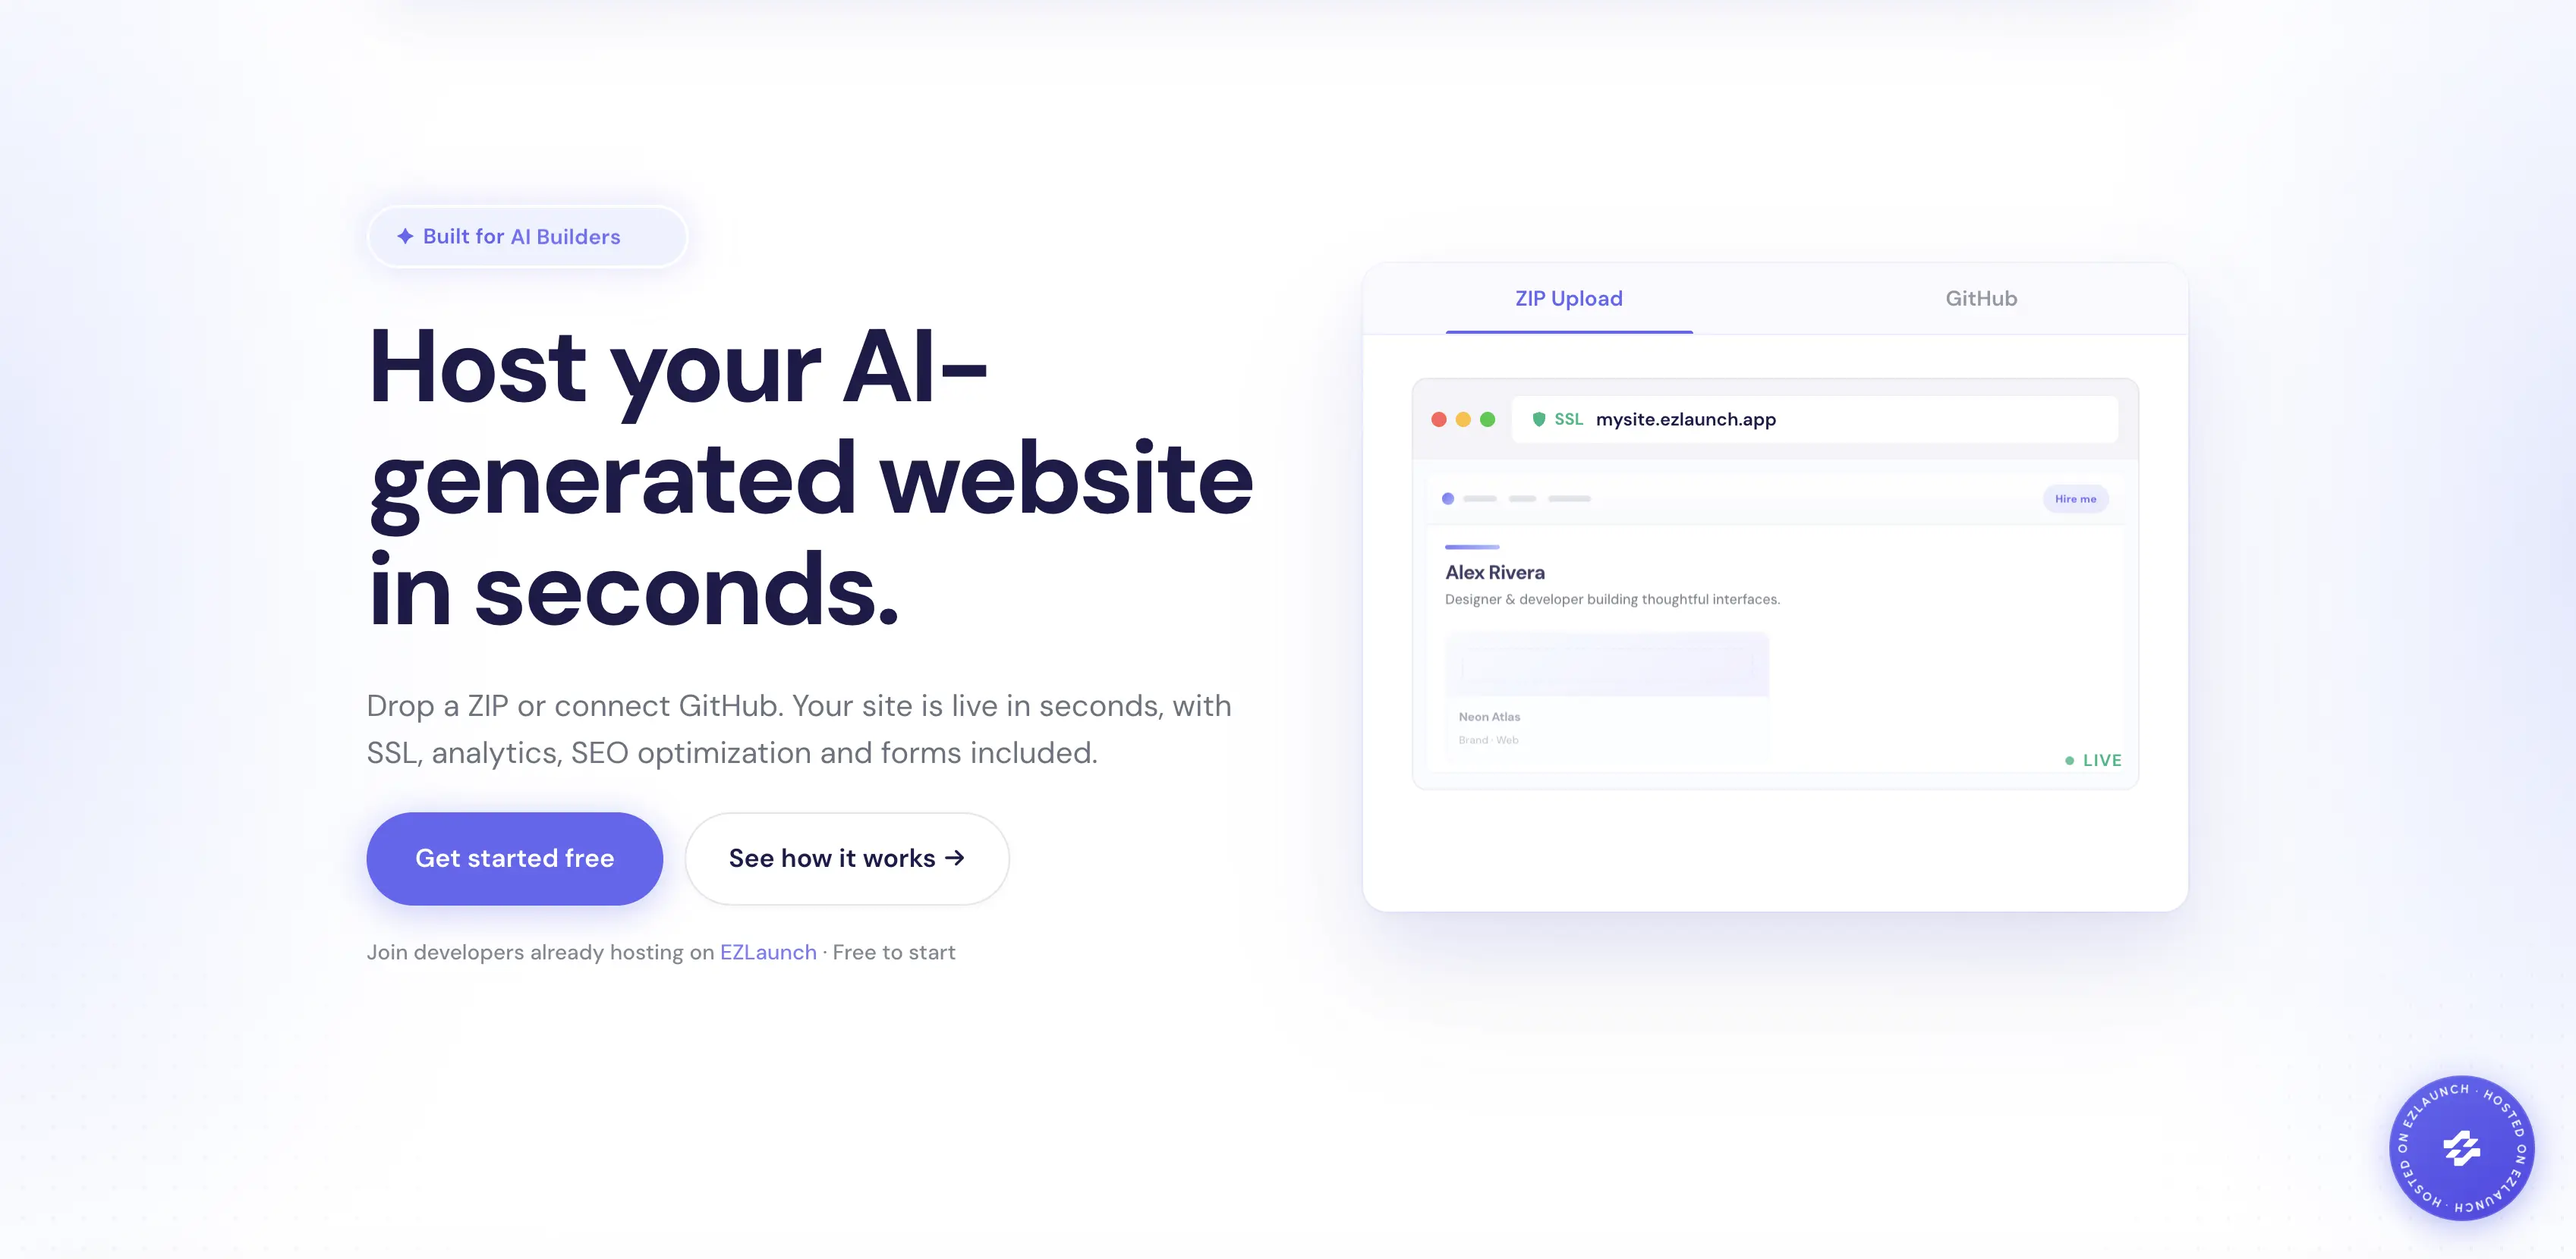
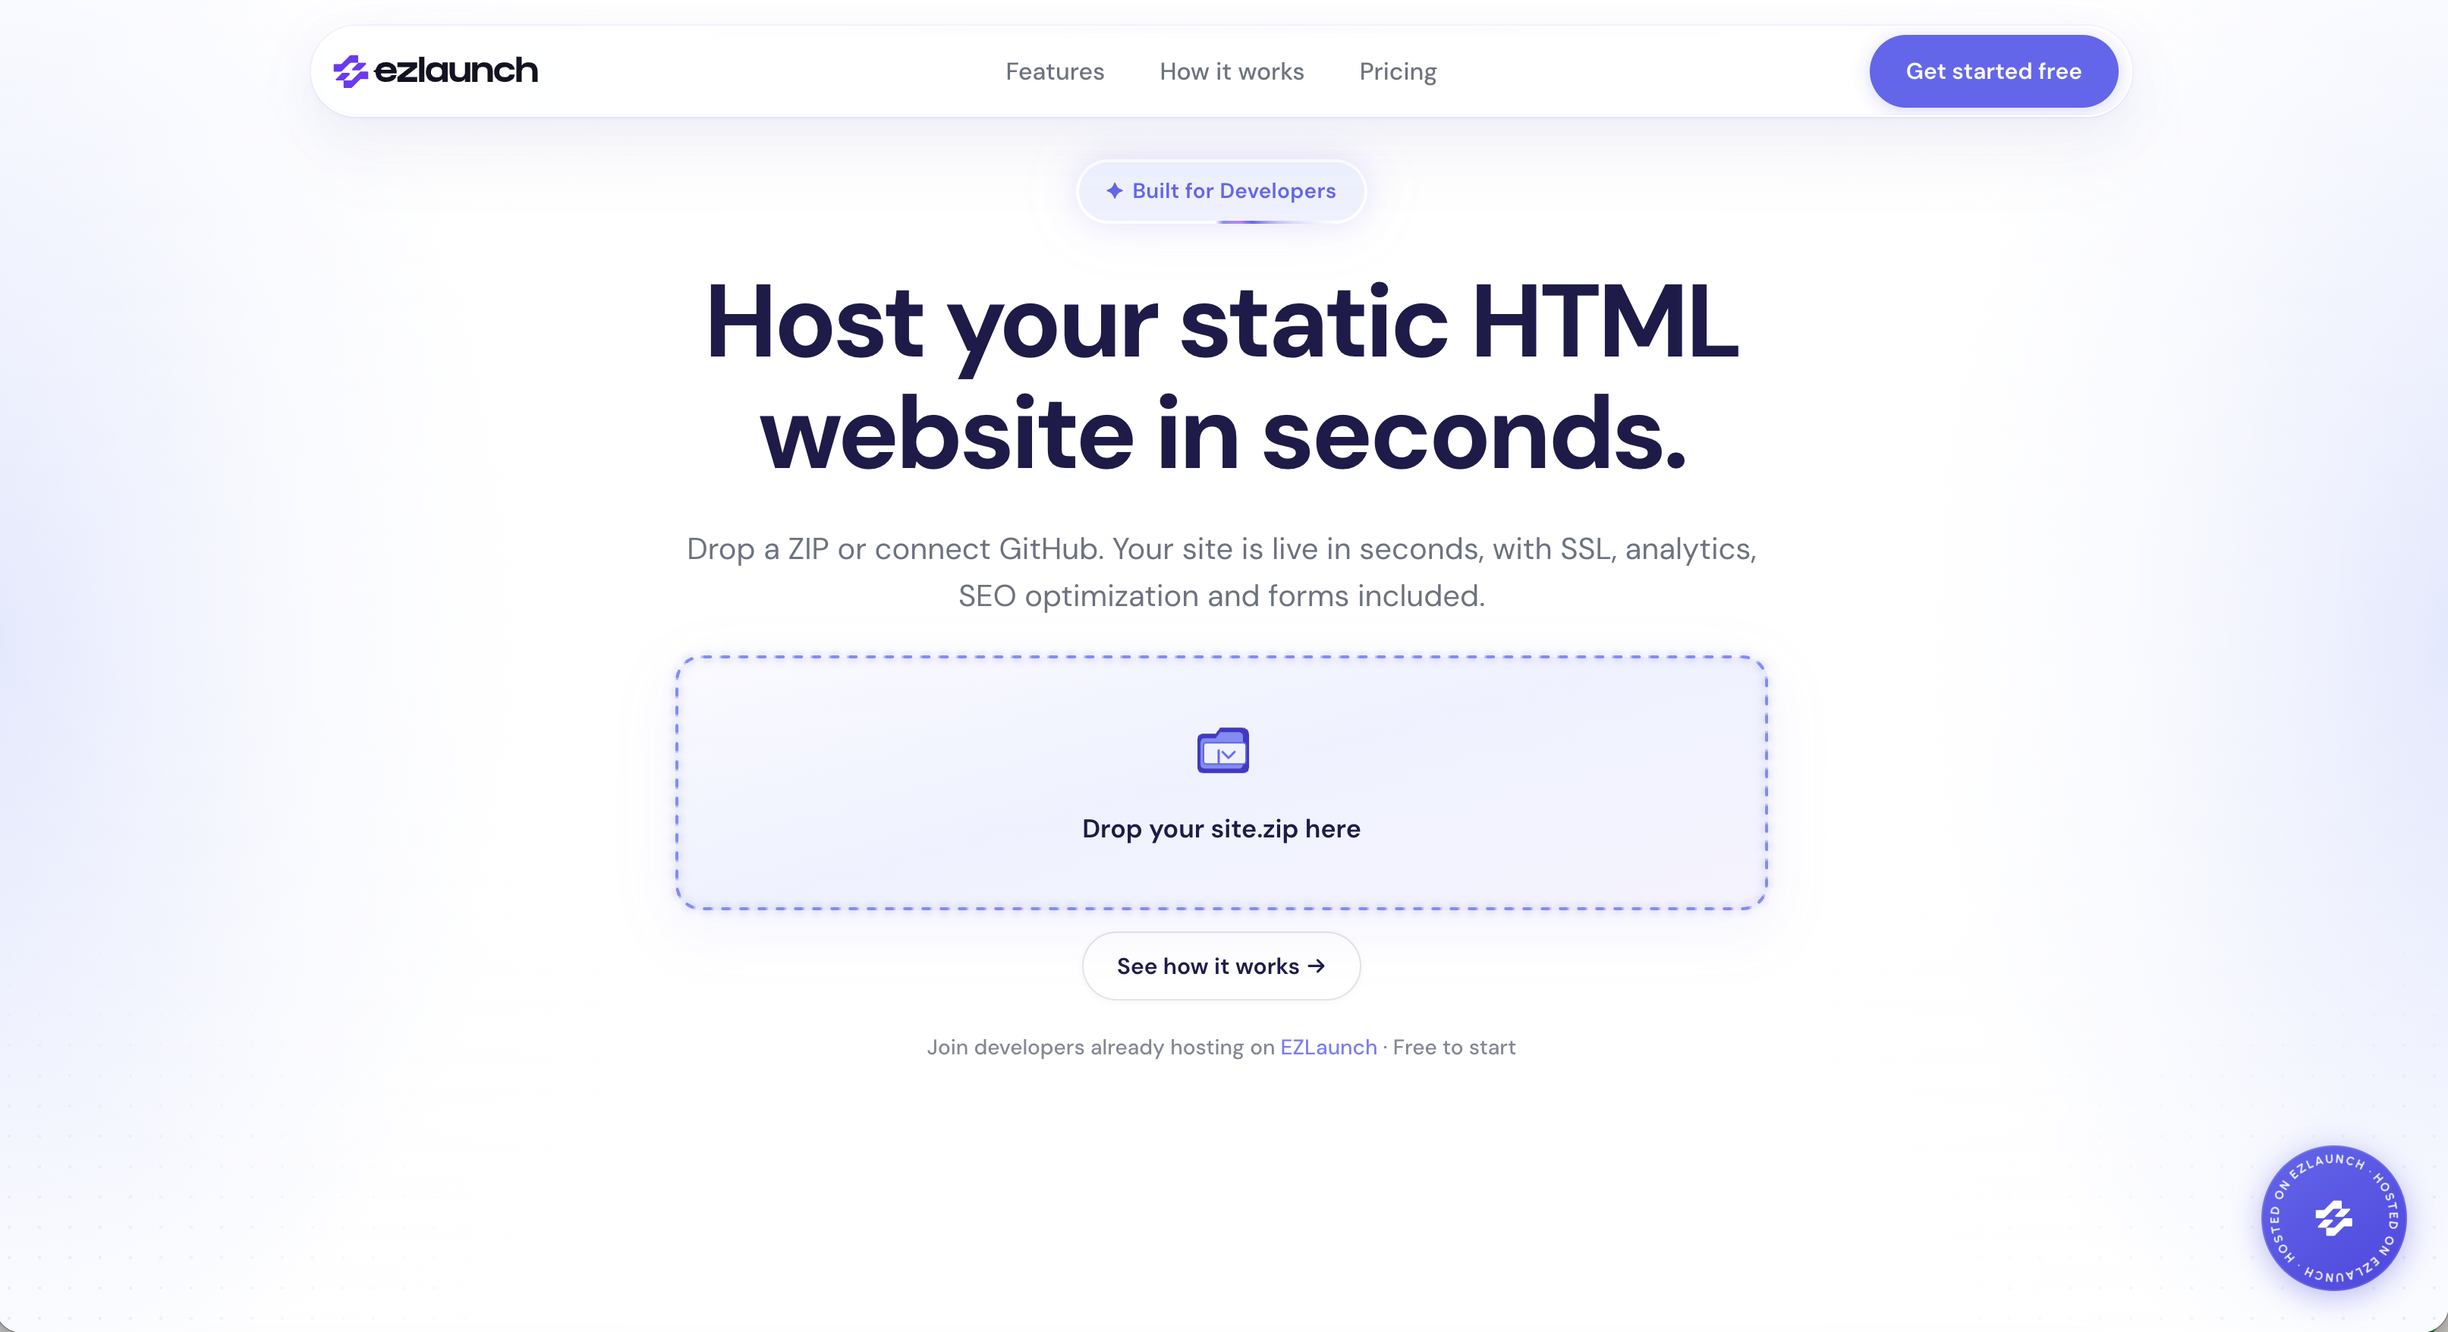
Update hero headline to static HTML focus and refresh OG image.

diff --git a/index.html b/index.html
@@ -79,7 +79,7 @@
             <span class="hero__badge-text">Built for <span class="hero__badge-rotate" id="hero-badge-rotate">AI Builders</span></span>
           </span>
         </span>
-        <h1 class="hero__headline">Host your AI-generated website in seconds.</h1>
+        <h1 class="hero__headline">Host your static HTML website in seconds.</h1>
         <p class="hero__subheadline">Drop a ZIP or connect GitHub. Your site is live in seconds, with SSL, analytics, SEO optimization and forms included.</p>
 
         <div class="hero-preview" id="hero-preview" data-state="idle">
